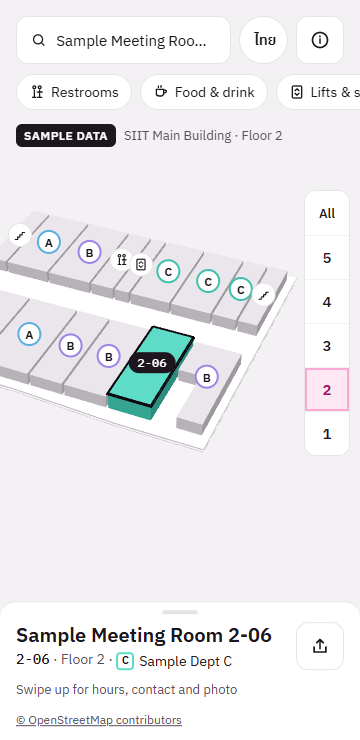
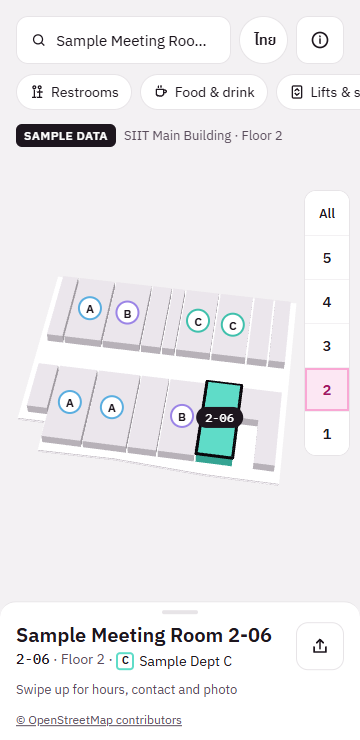
Fit the map to the free screen area by projecting the outline; no zoom on selection

Changed region(s): [[0.0, 0.2797, 0.7944, 0.6527], [0.7028, 0.6216, 0.7639, 0.6527]]

diff --git a/src/scene/BuildingScene.tsx b/src/scene/BuildingScene.tsx
@@ -16,11 +16,11 @@ const ROOM_HEIGHT = 3
 const RISE = 0.3 // a selected room grows 30% taller
 const BIG_ROOM_AREA = 200 // m²: bigger rooms are always labelled in single-floor view
 const FOV = 40
-// Screen space (px) taken by the chrome; the map is framed in what is left.
-const INSET_TOP = 150 // top bar, chips and status row
-const INSET_BOTTOM = 100 // bottom bar
-const INSET_LEFT = 8
-const INSET_RIGHT = 64 // floor picker
+// The map is fitted into the screen area the chrome leaves free (px).
+const INSET_TOP = 158 // below the top bar, chips, status row and banner
+const INSET_BOTTOM = 104 // above the bottom bar
+const INSET_LEFT = 16
+const INSET_RIGHT = 62 // left of the floor picker, with a gap
 const FULL_SHEET = 0.53 // the full room card covers the bottom 53% of the screen
 
 const outline = data.building.outline
@@ -29,7 +29,6 @@ const bounds = outline.reduce(
   { minX: Infinity, maxX: -Infinity, minZ: Infinity, maxZ: -Infinity },
 )
 const center = { x: (bounds.minX + bounds.maxX) / 2, z: (bounds.minZ + bounds.maxZ) / 2 }
-const halfWidth = (bounds.maxX - bounds.minX) / 2
 // Floors are drawn further apart than their real height so the stack reads clearly.
 const STACK_SPREAD = 1.75
 const elevationOf = (level: number) => (data.floors.find((f) => f.level === level)?.elevation ?? 0) * STACK_SPREAD
@@ -353,13 +352,64 @@ function Labels() {
   )
 }
 
-/** Camera distance that fits a footprint of half-extents rx and ry (metres) into the free screen area. */
-function fitDistance(rx: number, ry: number, w: number, h: number) {
-  const tv = Math.tan(THREE.MathUtils.degToRad(FOV / 2))
-  const th = tv * (w / h)
-  const freeW = Math.max(120, w - INSET_LEFT - INSET_RIGHT)
-  const freeH = Math.max(160, h - INSET_TOP - INSET_BOTTOM)
-  return Math.max(rx / (th * (freeW / w)), ry / (tv * (freeH / h)))
+type Rect = { left: number; right: number; top: number; bottom: number }
+
+/** The free screen area, which depends on what covers the bottom: nothing, the peek card or the full card. */
+function freeRect(w: number, h: number, card: 'none' | 'peek' | 'full', peekH: number): Rect {
+  const bottom = card === 'full' ? h * (1 - FULL_SHEET) - 24 : card === 'peek' ? h - peekH - 8 : h - INSET_BOTTOM
+  return { left: INSET_LEFT, right: w - INSET_RIGHT, top: INSET_TOP, bottom: Math.max(bottom, INSET_TOP + 120) }
+}
+
+const fitCam = new THREE.PerspectiveCamera(FOV, 1, 1, 900)
+const fitPoint = new THREE.Vector3()
+
+/**
+ * Camera distance (and the picture shift in px) that puts the whole building, or the one floor,
+ * inside `rect`, measured by projecting its outline through the real camera.
+ */
+function fitPose(view: FloorView, azimuth: number, polar: number, w: number, h: number, rect: Rect) {
+  const single = view !== ('all' as FloorView)
+  const y0 = single ? elevationOf(view as number) : 0
+  const y1 = (single ? y0 : topElevation) + ROOM_HEIGHT * (1 + RISE) + 0.3
+  const target = new THREE.Vector3(center.x, single ? y0 + 1 : topElevation / 2 + 1, center.z)
+  fitCam.aspect = w / h
+  fitCam.updateProjectionMatrix()
+  const pts = outline.flatMap(([x, z]) => [new THREE.Vector3(x, y0, z), new THREE.Vector3(x, y1, z)])
+  const measure = (dist: number) => {
+    fitCam.position.set(
+      target.x + dist * Math.sin(polar) * Math.sin(azimuth),
+      target.y + dist * Math.cos(polar),
+      target.z + dist * Math.sin(polar) * Math.cos(azimuth),
+    )
+    fitCam.lookAt(target)
+    fitCam.updateMatrixWorld()
+    let minX = Infinity, maxX = -Infinity, minY = Infinity, maxY = -Infinity
+    for (const p of pts) {
+      fitPoint.copy(p).project(fitCam)
+      const px = ((fitPoint.x + 1) / 2) * w
+      const py = ((1 - fitPoint.y) / 2) * h
+      minX = Math.min(minX, px); maxX = Math.max(maxX, px)
+      minY = Math.min(minY, py); maxY = Math.max(maxY, py)
+    }
+    return { minX, maxX, minY, maxY }
+  }
+  const fits = (dist: number) => {
+    const m = measure(dist)
+    return m.maxX - m.minX <= rect.right - rect.left && m.maxY - m.minY <= rect.bottom - rect.top
+  }
+  let lo = 20
+  let hi = 600
+  for (let i = 0; i < 28; i++) {
+    const mid = (lo + hi) / 2
+    if (fits(mid)) hi = mid
+    else lo = mid
+  }
+  const m = measure(hi)
+  return {
+    dist: hi,
+    shiftX: (rect.left + rect.right) / 2 - (m.minX + m.maxX) / 2,
+    shiftY: (rect.top + rect.bottom) / 2 - (m.minY + m.maxY) / 2,
+  }
 }
 
 function Rig() {
@@ -367,17 +417,22 @@ function Rig() {
   const [attached, setAttached] = useState(false)
   const size = useThree((s) => s.size)
   const view = useAppStore((s) => s.view)
+  const hasRoom = useAppStore((s) => s.selectedRoomId !== null)
+  const snap = useAppStore((s) => s.snap)
+  const peekH = useAppStore((s) => s.peekH)
   const ready = size.width > 0 && size.height > 0
-  const aspect = ready ? size.width / size.height : 1
-  const allDist = fitDistance(halfWidth * 1.15 + 1, 34, size.width || 1, size.height || 1)
-  const floorDist = fitDistance(halfWidth * 1.15 + 1, 26, size.width || 1, size.height || 1)
+  const w = size.width || 1
+  const h = size.height || 1
+  // Reference distances with nothing covering the map: the zoom limit and the "zoomed in" test.
+  const allDist = useMemo(() => fitPose('all', 0.15, 0.6, w, h, freeRect(w, h, 'none', 0)).dist, [w, h])
+  const floorDist = useMemo(() => fitPose(1, 0.15, 0.65, w, h, freeRect(w, h, 'none', 0)).dist, [w, h])
   const started = useRef(false)
   const zoomed = useRef(false)
+  const shift = useRef({ x: 0, y: 0, jump: true })
 
   const focus = useAppStore((s) => s.focus)
   const lastFocus = useRef(0)
   const lastView = useRef<FloorView | null>(null)
-  const kind = useRef<'focus' | 'view'>('view')
 
   useEffect(() => {
     const c = ref.current
@@ -393,26 +448,21 @@ function Rig() {
     c.maxPolarAngle = 1.5
     c.setBoundary(new THREE.Box3(new THREE.Vector3(bounds.minX - 10, -3, bounds.minZ - 10), new THREE.Vector3(bounds.maxX + 10, topElevation + 8, bounds.maxZ + 10)))
     const newFocus = focus !== null && focus.tick !== lastFocus.current
-    // A resize re-runs this effect; it then repeats the last pose instead of picking a new one.
-    const useFocus = newFocus || (kind.current === 'focus' && view === lastView.current)
+    if (focus && newFocus) lastFocus.current = focus.tick
+    const viewChanged = view !== lastView.current
     lastView.current = view
-    if (focus && useFocus) {
-      // Glide to a search result or QR spot.
-      lastFocus.current = focus.tick
-      kind.current = 'focus'
-      const dist = floorDist * 0.72
-      void c.rotateTo(focus.azimuth ?? (first ? 0.4 : c.azimuthAngle), 0.85, animate)
-      void c.dollyTo(dist, animate)
-      void c.moveTo(focus.x, elevationOf(focus.floor) + 1, focus.z, animate)
-      return
-    }
-    kind.current = 'view'
     const single = view !== ('all' as FloorView)
-    void c.rotateTo(first ? 0.4 : c.azimuthAngle, single ? 0.8 : 0.85, animate)
-    void c.dollyTo(single ? floorDist : allDist, animate)
+    // A new view picks the standard tilt; a re-fit (resize, card moved) keeps the user's angles.
+    const azimuth = newFocus && focus?.azimuth !== undefined ? focus.azimuth : first ? 0.15 : c.azimuthAngle
+    const polar = first || viewChanged || newFocus ? (single ? 0.65 : 0.6) : c.polarAngle
+    const card = !hasRoom ? 'none' : snap === 'full' ? 'full' : 'peek'
+    const fit = fitPose(view, azimuth, polar, w, h, freeRect(w, h, card, peekH))
+    shift.current = { x: fit.shiftX, y: fit.shiftY, jump: !animate }
+    void c.rotateTo(azimuth, polar, animate)
+    void c.dollyTo(fit.dist, animate)
     void c.moveTo(center.x, single ? elevationOf(view as number) + 1 : topElevation / 2 + 1, center.z, animate)
-    // eslint-disable-next-line react-hooks/exhaustive-deps -- floorDist and allDist follow aspect
-  }, [attached, view, ready, aspect, focus])
+    // eslint-disable-next-line react-hooks/exhaustive-deps -- allDist follows the size
+  }, [attached, view, ready, w, h, focus, hasRoom, snap, peekH])
 
   const offset = useRef({ x: 0, y: 0 })
   useFrame(({ camera, size: sz }, dt) => {
@@ -423,13 +473,11 @@ function Rig() {
       zoomed.current = near
       useAppStore.getState().setZoomedIn(near)
     }
-    // Shift the picture so the map's centre is the centre of the free area (clear of the
-    // chrome, the sheet and the picker); eases when the sheet changes snap point.
-    const { selectedRoomId, snap, peekH } = useAppStore.getState()
-    const bottom = selectedRoomId ? (snap === 'full' ? sz.height * FULL_SHEET : peekH) : INSET_BOTTOM
+    // Shift the picture so the fitted map sits in the free area; eases when the card moves.
     const o = offset.current
-    const x = ease(o.x, (INSET_LEFT - INSET_RIGHT) / 2, 9, dt)
-    const y = ease(o.y, (INSET_TOP - bottom) / 2, 9, dt)
+    const t = shift.current
+    const x = t.jump ? t.x : ease(o.x, t.x, 9, dt)
+    const y = t.jump ? t.y : ease(o.y, t.y, 9, dt)
     if ((x !== o.x || y !== o.y || !camera.view?.enabled) && camera instanceof THREE.PerspectiveCamera) {
       o.x = x
       o.y = y

diff --git a/docs/ai-handoffs/week1-viewer-report.md b/docs/ai-handoffs/week1-viewer-report.md
@@ -157,5 +157,18 @@ The selected room's number tag (the black "2-06" label) was missing when a page 
 - Still not tested on a real phone or GPU.
 - The picker's compact 36 px buttons below the 44 px target (full card only).
 
+### Second pass on framing (after the orchestrator's review of the first fix)
+
+The first fit used fixed padding, so single-floor views still ran under the picker. It is now measured:
+
+- `fitPose` in `BuildingScene.tsx` projects the building outline (the one floor, or the whole stack) through the real camera at the current angles and searches for the camera distance at which its screen bounding box fits the free rectangle; then it shifts the picture so the box is centred in that rectangle.
+- Free rectangle: left 16 px; right = screen width − 62 px (picker plus 8 px gap); top 158 px (below top bar, chips, status row and banner); bottom = bottom bar, or the top of the peek card minus 8 px, or the top of the full card minus 24 px (room for the floating OSM credit).
+- A selected room no longer zooms in: the whole floor is fitted above the card, with the room outlined and tagged. Search, tap, route and QR all use this. QR keeps its facing direction. The fit re-runs when the card changes between none, peek and full, and on resize, keeping the user's current angles.
+- Tilt is a little more top-down (0.6 stacked, 0.65 single floor) and the start azimuth is 0.15, which the exact fit now allows without clipping the lower floors.
+- Fixed a bug in the first fix: the full-card bottom was measured as 53% of the screen height instead of from the card's top.
+- Checked in b01, b02, b03, b04, b07, b09, b13, b14, b15 at both sizes: the whole outline sits inside the rectangle, no badge is cut off, nothing under the picker.
+- The stacked view is still width-limited: on a 390 px phone the near-square building fills the 312 px free width and about 260 px of the 580 px free height. It cannot grow further without cropping.
+- Retaken: all 22 screenshots at both sizes. `npm run lint`, `npm test` (22) and `npm run build` pass.
+
 Verdict: DONE
 
